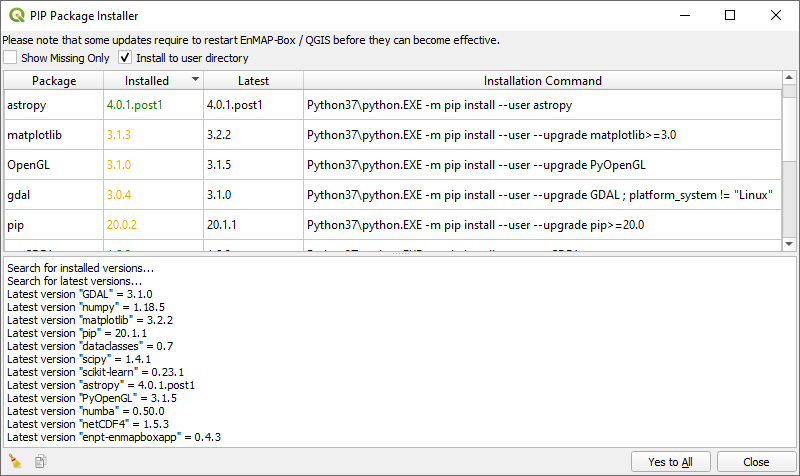
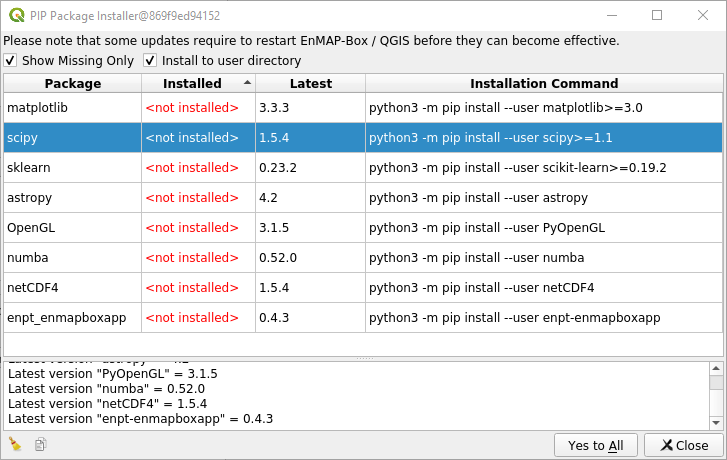
doc: updated installation instructions

Changed region(s): [[0.0, 0.0, 1.0, 1.0]]

diff --git a/doc/source/usr_section/usr_installation.rst b/doc/source/usr_section/usr_installation.rst
@@ -18,11 +18,6 @@ Installation
    :width: 30px
    :height: 30px
 
-
-.. |osgeoicon| image:: ../img/OSGeo4W.ico
-   :width: 30px
-   :height: 30px
-
 .. |osgeoinstaller| image:: ../img/osgeoinstaller.png
 
 
@@ -51,19 +46,13 @@ Additional information on the installation process is provided in the `QGIS Docu
 In case you already have QGIS installed, you can skip this step.
 
 
-.. .. tip::
-
-..    The installation of additional python packages can be cumbersome, in particular on windows.
-..    You might therefore consider to
-..    :ref:`install QGIS in a conda/anaconda environment <dev_installation_create_conda_qgis>`.
-
 MacOS
 ~~~~~
 
 Before you can install QGIS from the downloaded disk image `qgis-macos-pr.dmg`,
 you need to allow your macOS to install it:
 
-1. Open System Preferences > Security & Privacy an
+1. Open System Preferences > Security & Privacy
 
 2. Unlock the page to make changes.
 
@@ -80,69 +69,80 @@ Now open the disk image (double click) and copy the QGIS.app to your application
 
 ....
 
-|
 
 .. _install-python-packages:
 
 2. Install required python packages
 -----------------------------------
 
-The EnMAP-Box core plugin requires the following python packages:
+The EnMAP-Box core plugin requires several python packages:
 
 * `numpy <http://www.numpy.org/>`_
 * `scipy <https://www.scipy.org>`_
 * `scikit-learn <http://scikit-learn.org/stable/index.html>`_
 * `matplotlib <https://matplotlib.org/>`_
-* `astropy <http://docs.astropy.org>`_ (**optional**, relevant e.g. for certain filtering algorithms)
+* `astropy <http://docs.astropy.org>`_ (**optional**, relevant for certain processing algorithms)
 
-Follow the platform specific installation instructions below in order to install these packages.
 
-.. note::
+In the following we demonstrate two variants for installing the required Python packages:
 
-   Starting with version 3.6 the EnMAP-Box starts without previously installing the required Python packages.
-   If needed, these can be installed ad-hoc to the user directory using the Package Installer (:menuselection:`Project --> Package Installer`)
-   in order to make the plugin run.
+.. _package_installer:
 
-   **However, we still recommend to install the packages as described below!**
+2.1 Package Installer
+~~~~~~~~~~~~~~~~~~~~
 
-   .. image:: /img/package_installer.png
+The EnMAP-Box includes a Package Installer that offers a more or less one-click solution to install required python packages.
+It can be accessed from the menu bar via :menuselection:`Project --> Package Installer`.
 
+If you start the EnMAP-Box for the first time, you may see a warning.
+The Package Installer can also be opened by clicking :guilabel:`Install Missing`.
+
+.. image:: /img/warning_missing_packages.png
+
+Use the :guilabel:`Yes to All` button to install all required python packages. Per default, this will install packages using pip into
+the user directory (as this does not require admin rights). It is also possible to install/update packages individually via
+the context menu inside the package list.
+
+.. image:: /img/package_installer.png
+
+It might be necessary to restart QGIS and the EnMAP-Box.
+
+2.2 Command-line
+~~~~~~~~~~~~~~~~
+
+In case the :ref:`Package Installer <package_installer>` does not work for you our you do not want to use it,
+try installing the packages from the command-line. This variant may be more reliable. See OS specific instructions below:
 
 .. _install-packages-windows:
 
 Windows
-~~~~~~~
+*******
 
 
 1. Close QGIS, if it is open.
 
-2. Start the OSGeo4W Shell |osgeoicon| with admin rights.
+2. Run the OSGeo4W Shell as administrator **(!!!)**. A convenient way to access the OSGeo4W Shell is from the start menu.
+   Depending on the installation method you used to install QGIS, the shortcut will be listed under *QGIS 3.xx* (standalone installer)
+   or *OSGeo4W* (network installer)
 
-   * Open the start menu :menuselection:`QGIS 3.xx --> OSGeo4W Shell --> Right-Click --> Run as administrator`
+   Hold :kbd:`Ctrl` + :kbd:`Shift` and click on the OSGeo4W Shell entry (or right-click and choose *Run as administrator*)
 
-     .. image:: ../img/open_osgeoshell.png
-        :width: 500px
-
-
-     .. hint::
-
-        If you used the OSGeo4W Installer to install QGIS, the OSGeo4W Shell will be listed under *OSGeo4W* in the Start Menu
+   .. image:: /img/windows_start_osgeo.png
 
 3. Activate the Python 3 environment by entering:
 
    .. code-block:: batch
 
-      call py3_env.bat
+      py3_env
 
    .. image:: ../img/shell_callpy3env.png
 
-|
 
 4. Install required python packages by entering:
 
    .. code-block:: batch
 
-      python3 -m pip install -r https://bitbucket.org/hu-geomatics/enmap-box/raw/develop/requirements.txt
+      pip3 install -r https://bitbucket.org/hu-geomatics/enmap-box/raw/develop/requirements.txt
 
 
    Now all packages will be installed automatically. After completion, the shell should show something like this:
@@ -152,51 +152,33 @@ Windows
    If the package installation was successful, you can close the shell. The required packages are installed now and
    you can continue to start/install the EnMAP-Box.
 
-   |
-
    .. error::
 
       In case you run into problems because pip is not available in your python environment
       (error message ``C:/.../python3.exe: No module named pip`` or similar), :ref:`follow these steps... <faq_no_pip>`
 
-
-
-.. 5. **Optionally**, also install astropy using pip in the OSGeo4W Shell:
-
-
-..    .. code-block:: batch
-
-..      python3 -m pip install astropy
-
-
-
+|
 
 .. _install-packages-linux:
 
-|
-
 Linux
-~~~~~
+*****
 
-#. Open the terminal and install all missing packages using pip:
+1. Close QGIS, if it is open.
+2. Open the terminal and install all missing packages using pip:
 
-   .. code-block:: batch
+   .. code-block:: bash
 
-      python3 -m pip install -r https://bitbucket.org/hu-geomatics/enmap-box/raw/develop/requirements.txt
+      pip3 install -r https://bitbucket.org/hu-geomatics/enmap-box/raw/develop/requirements.txt
 
-   .. error::
-
-      See :ref:`FAQ <faq_requirements>` if you run into problems installing the packages.
-
+|
 
 .. _install-packages-mac:
 
-|
-
 Mac
-~~~
+***
 
-Most packages required by the EnMAP-Box, like scikit-learn, are already be part of the QGIS.app environment. 
+Most packages required by the EnMAP-Box, like scikit-learn, are already a part of the QGIS.app environment.
 
 Since QGIS 3.16, the `packaging mechanism <https://www.lutraconsulting.co.uk/blog/2020/10/01/qgis-macos-package/>`_,
 allows to install additional package with pip as followed::
@@ -204,6 +186,8 @@ allows to install additional package with pip as followed::
    /Applications/QGIS.app/Contents/MacOS/bin/pip3 install astropy
 
    /Applications/QGIS.app/Contents/MacOS/bin/pip3 install -r https://bitbucket.org/hu-geomatics/enmap-box/raw/develop/requirements.txt
+
+|
 
 .. error::
 

diff --git a/doc/source/icon_links.rst b/doc/source/icon_links.rst
@@ -264,6 +264,10 @@
    :width: 28px
 .. |edit_ogr_metadata| image:: /../../enmapbox/externals/qps/ui/icons/edit_ogr_metadata.svg
    :width: 28px
+.. |export_symbology| image:: /../../enmapbox/externals/qps/ui/icons/export_symbology.svg
+   :width: 28px
+.. |import_symbology| image:: /../../enmapbox/externals/qps/ui/icons/import_symbology.svg
+   :width: 28px
 .. |pan_center| image:: /../../enmapbox/externals/qps/ui/icons/pan_center.svg
    :width: 28px
 .. |plus_green| image:: /../../enmapbox/externals/qps/ui/icons/plus_green.svg
@@ -273,6 +277,10 @@
 .. |poly2speclib| image:: /../../enmapbox/externals/qps/ui/icons/poly2speclib.svg
    :width: 28px
 .. |profile| image:: /../../enmapbox/externals/qps/ui/icons/profile.svg
+   :width: 28px
+.. |profiletheme_bright| image:: /../../enmapbox/externals/qps/ui/icons/profiletheme_bright.svg
+   :width: 28px
+.. |profiletheme_dark| image:: /../../enmapbox/externals/qps/ui/icons/profiletheme_dark.svg
    :width: 28px
 .. |profile_add_auto| image:: /../../enmapbox/externals/qps/ui/icons/profile_add_auto.svg
    :width: 28px
@@ -313,6 +321,8 @@
 .. |speclib_reload| image:: /../../enmapbox/externals/qps/ui/icons/speclib_reload.svg
    :width: 28px
 .. |speclib_save| image:: /../../enmapbox/externals/qps/ui/icons/speclib_save.svg
+   :width: 28px
+.. |speclib_usevectorrenderer| image:: /../../enmapbox/externals/qps/ui/icons/speclib_usevectorrenderer.svg
    :width: 28px
 .. |temporalProfile| image:: /../../enmapbox/externals/qps/ui/icons/temporalProfile.svg
    :width: 28px
@@ -373,6 +383,8 @@
 .. |rb0| image:: /img/icons/rb0.png
    :width: 28px
 .. |rb1| image:: /img/icons/rb1.png
+   :width: 28px
+.. |rendererCategorizedSymbol| image:: /img/icons/rendererCategorizedSymbol.svg
    :width: 28px
 .. |spin| image:: /img/icons/spin.png
    :width: 28px

diff --git a/doc/source/usr_section/usr_gettingstarted.rst b/doc/source/usr_section/usr_gettingstarted.rst
@@ -102,20 +102,11 @@ image using a point vector dataset with the classes *impervious, low vegetation,
 * Here you can alter the class colors and the class names or change the size of your sample. But for this tutorial use
   the default settings (sample size at 100%).
 
-..  .. tip::
+  .. tip::
 
-..     Find more information on the Classification Workflow application in the :ref:`User Manual <classification_workflow>`
+     Find more information on the Classification Workflow application in the :ref:`User Manual <Classification Workflow>`.
 
-* As :guilabel:`Classifier` choose RandomForestClassifier (which is the default setting)
-* In the :guilabel:`Model Parameters` text field add the parameter ``n_estimators = 300``. This will increase the number of trees
-  in the random forest. We alter this parameter here, because the scikit-learn default is 10, which is quite low.
-  So the text field should look like this:
-
-  .. code-block:: python
-
-      from sklearn.ensemble import RandomForestClassifier
-      estimator = RandomForestClassifier(n_estimators = 300)
-
+* As :guilabel:`Classifier` choose RandomForestClassifier (which is the default setting).
 * Under :guilabel:`Mapping` you have to specify the raster which will be classified. We will choose the same raster we took the samples from,
   so select :file:`enmap_berlin.bsq` as :guilabel:`Raster`.
 * Make sure to check |cb1| the :guilabel:`Classification` output. Specify an output path and filename by pressing :guilabel:`...` or

diff --git a/doc/source/general/faq_trouble.rst b/doc/source/general/faq_trouble.rst
@@ -50,14 +50,14 @@ suggest new entries!
       EnMAP-Box Developers (2019): EnMAP-Box 3 - A QGIS Plugin to process and visualize
       hyperspectral remote sensing data. https://enmap-box.readthedocs.io
 
-  For the general idea behind the EnMAP-Box please refer to::
+  For the general idea behind the EnMAP-Box please refer to:
 
-      van der Linden, S., Rabe, A., Held, M., Jakimow, B., Leitão, P., Okujeni, A., Schwieder, M.,
-      Suess, S., Hostert, P., 2015. The EnMAP-Box—A Toolbox and Application Programming Interface
-      for EnMAP Data Processing. Remote Sensing 7,
-      11249–11266. 10.3390/rs70911249.
+  .. code-block:: none
 
-
+     van der Linden, S., Rabe, A., Held, M., Jakimow, B., Leitão, P., Okujeni, A., Schwieder, M.,
+     Suess, S., Hostert, P., 2015. The EnMAP-Box—A Toolbox and Application Programming Interface
+     for EnMAP Data Processing. Remote Sensing 7,
+     11249–11266. 10.3390/rs70911249.
 
 * **How to install QGIS without administrative rights?**
 
